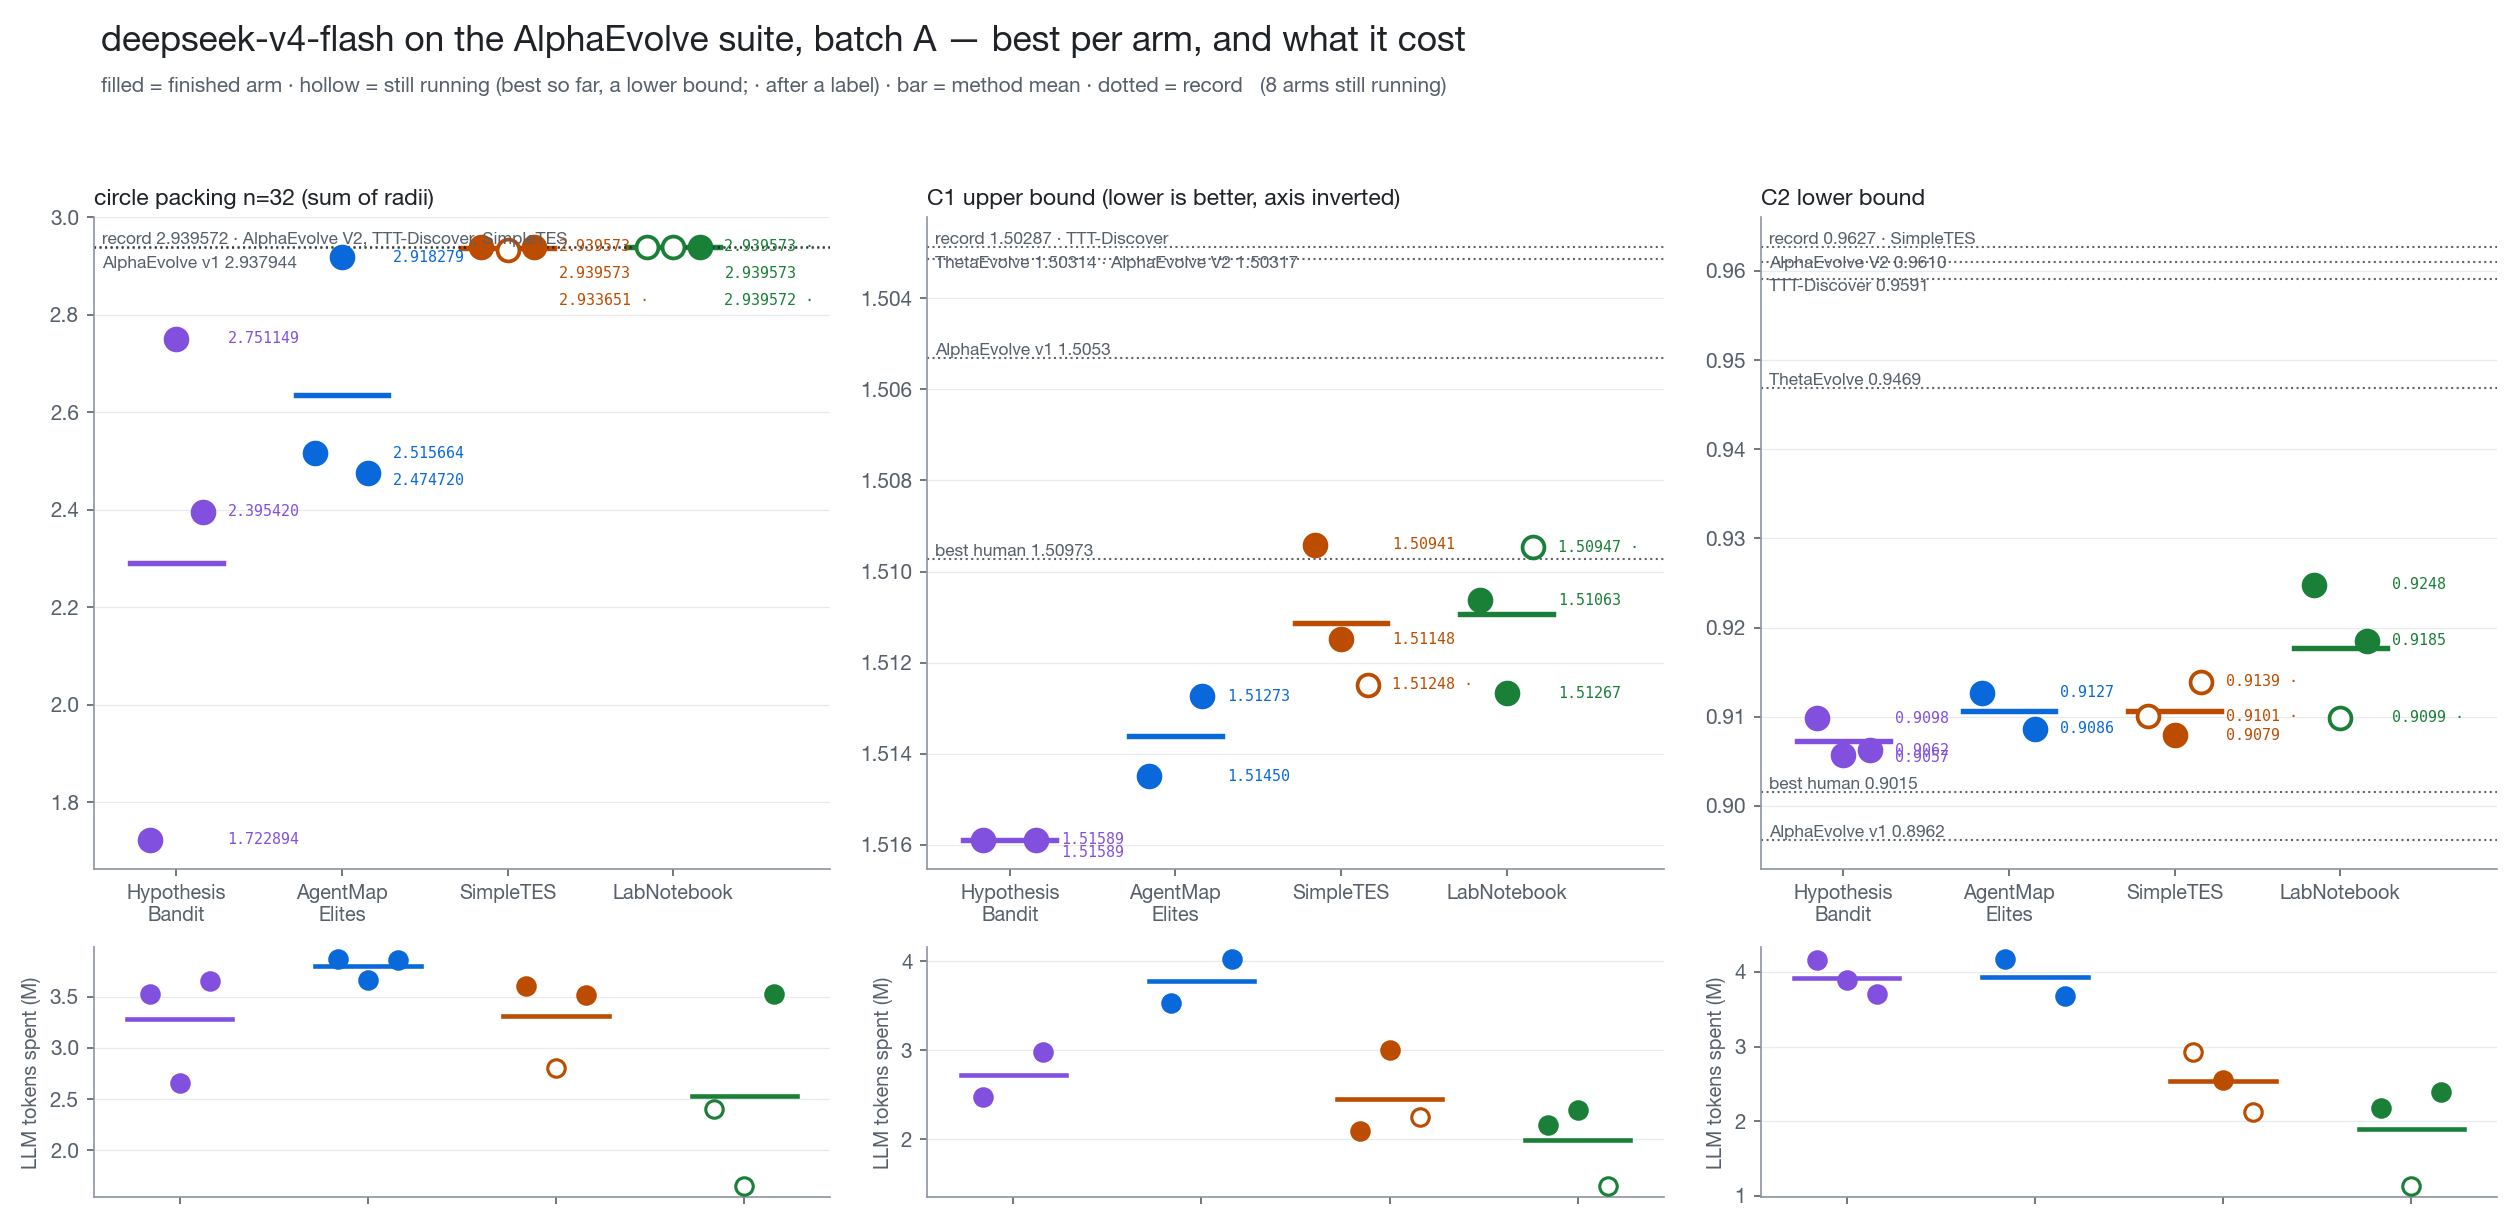
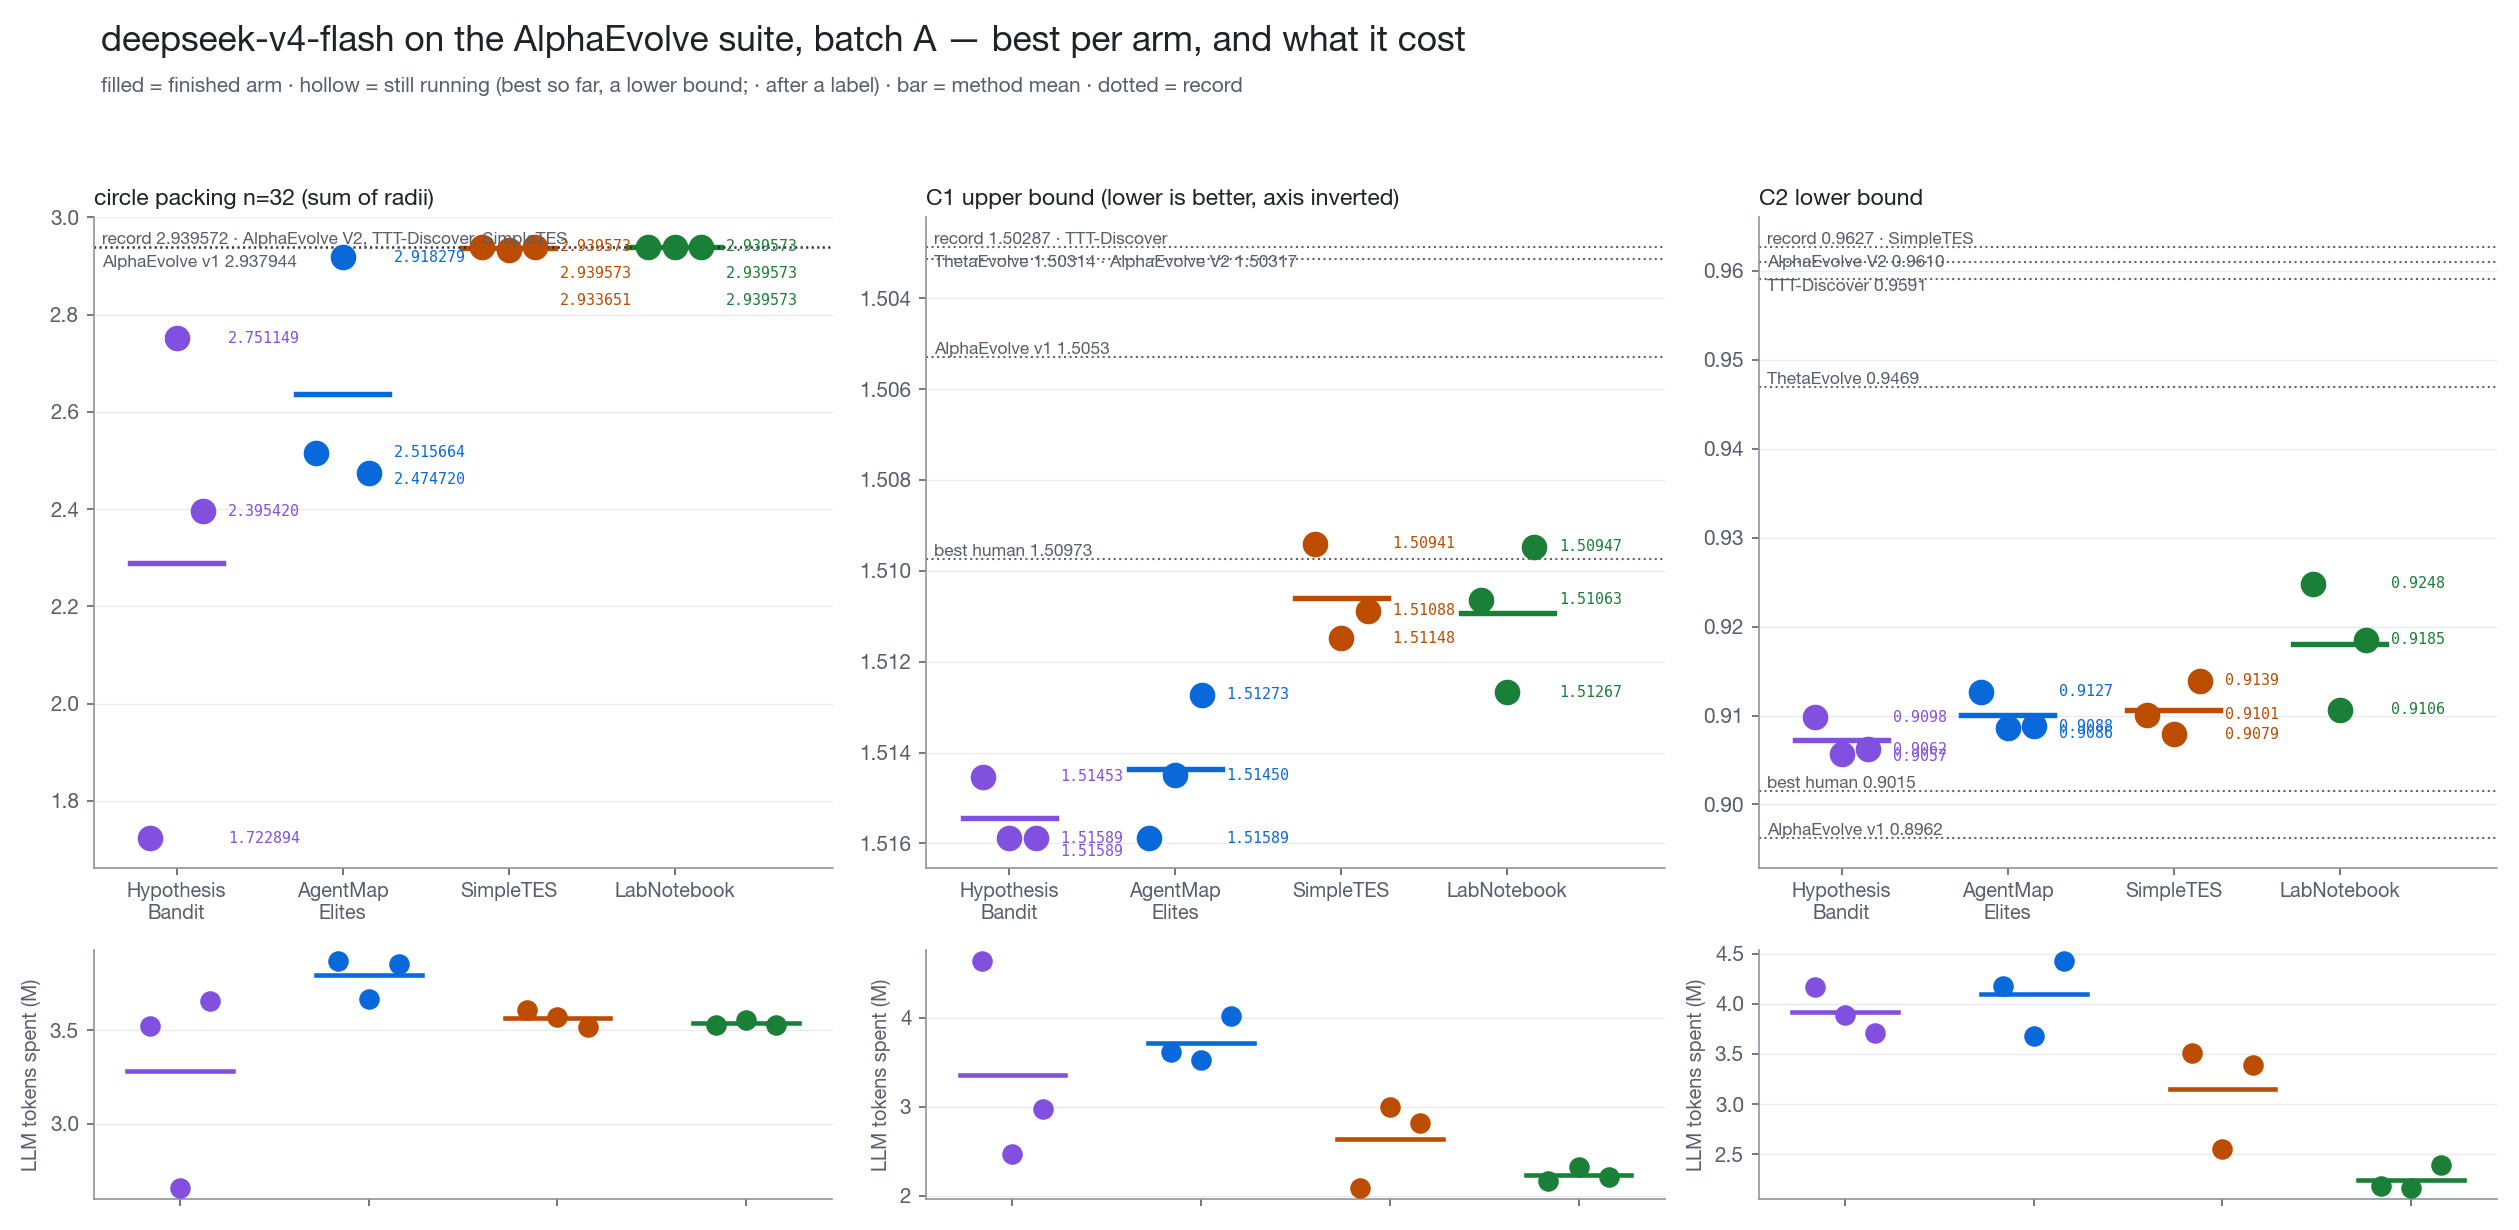
docs(evolution): AlphaEvolve-suite batch A final in the LabNotebook results

diff --git a/examples/evolution_bench/docs/lab_notebook_results.tex b/examples/evolution_bench/docs/lab_notebook_results.tex
@@ -201,8 +201,7 @@ gpt-oss-120b with an 1100 s evaluation cap), so their numbers are context, not c
 harness score for $C_1$ is $1/C_1$; the table reports $C_1$ itself.
 
 \begin{table}[H]\centering\small
-\caption{Batch A: per-arm results in the papers' units, with the published values. Arms still
-running are marked $^\circ$; a dash is an arm that had not started when the table was made.}
+\caption{Batch A, all 36 arms finished: per-arm results in the papers' units, with the published values.}
 \label{tab:ae}
 \begin{tabular}{@{}lrrrrr@{}}
 \toprule
@@ -211,26 +210,26 @@ method & s0 & s1 & s2 & mean & tokens \\
 \midrule
 HypothesisBandit & 1.722894 & 2.751149 & 2.395420 & 2.289821 & 3.3 \\
 AgentMapElites & 2.515664 & 2.918279 & 2.474720 & 2.636221 & 3.8 \\
-SimpleTES & 2.939573 & 2.933651$^\circ$ & 2.939573 & 2.937599 & 3.3 \\
-LabNotebook & 2.939572$^\circ$ & 2.939573$^\circ$ & 2.939573 & 2.939573 & 2.5 \\
+SimpleTES & 2.939573 & 2.933651 & 2.939573 & 2.937599 & 3.6 \\
+\textbf{LabNotebook} & \textbf{2.939573} & \textbf{2.939573} & \textbf{2.939573} & \textbf{2.939573} & 3.5 \\
 \multicolumn{6}{@{}l}{\footnotesize published: best human 2.936 $\cdot$ AlphaEvolve v1 2.937944 $\cdot$ record 2.939572} \\
 \multicolumn{6}{@{}l}{\footnotesize \phantom{published: }(AlphaEvolve V2, TTT-Discover, SimpleTES)} \\
 \midrule
 \multicolumn{6}{@{}l}{\textbf{$C_1$, first autocorrelation inequality} --- upper bound, lower is better} \\
 \midrule
-HypothesisBandit & 1.51589 & 1.51589 & --- & 1.51589 & 2.7 \\
-AgentMapElites & 1.51450 & 1.51273 & --- & 1.51362 & 3.8 \\
-SimpleTES & \textbf{1.50941} & 1.51148 & 1.51248$^\circ$ & 1.51112 & 2.4 \\
-LabNotebook & 1.51063 & 1.51267 & 1.50947$^\circ$ & \textbf{1.51093} & 2.0 \\
+HypothesisBandit & 1.51453 & 1.51589 & 1.51589 & 1.51544 & 3.4 \\
+AgentMapElites & 1.51589 & 1.51450 & 1.51273 & 1.51437 & 3.7 \\
+\textbf{SimpleTES} & \textbf{1.50941} & 1.51148 & 1.51088 & \textbf{1.51059} & 2.6 \\
+LabNotebook & 1.51063 & 1.51267 & 1.50947 & 1.51093 & 2.2 \\
 \multicolumn{6}{@{}l}{\footnotesize published: best human 1.50973 $\cdot$ AlphaEvolve v1 1.5053 $\cdot$ ThetaEvolve 1.50314} \\
 \multicolumn{6}{@{}l}{\footnotesize \phantom{published: }AlphaEvolve V2 1.50317 $\cdot$ TTT-Discover 1.50287 (record)} \\
 \midrule
 \multicolumn{6}{@{}l}{\textbf{$C_2$, second autocorrelation inequality} --- lower bound, higher is better} \\
 \midrule
 HypothesisBandit & 0.9098 & 0.9057 & 0.9062 & 0.9072 & 3.9 \\
-AgentMapElites & 0.9127 & 0.9086 & --- & 0.9107 & 3.9 \\
-SimpleTES & 0.9101$^\circ$ & 0.9079 & 0.9139$^\circ$ & 0.9106 & 2.5 \\
-\textbf{LabNotebook} & \textbf{0.9248} & 0.9099$^\circ$ & 0.9185 & \textbf{0.9177} & 1.9 \\
+AgentMapElites & 0.9127 & 0.9086 & 0.9088 & 0.9100 & 4.1 \\
+SimpleTES & 0.9101 & 0.9079 & 0.9139 & 0.9106 & 3.1 \\
+\textbf{LabNotebook} & \textbf{0.9248} & 0.9106 & 0.9185 & \textbf{0.9180} & 2.2 \\
 \multicolumn{6}{@{}l}{\footnotesize published: best human 0.9015 $\cdot$ AlphaEvolve v1 0.8962 $\cdot$ ThetaEvolve 0.9469} \\
 \multicolumn{6}{@{}l}{\footnotesize \phantom{published: }TTT-Discover 0.9591 $\cdot$ AlphaEvolve V2 0.9610 $\cdot$ SimpleTES 0.9627 (record)} \\
 \bottomrule
@@ -239,9 +238,10 @@ SimpleTES & 0.9101$^\circ$ & 0.9079 & 0.9139$^\circ$ & 0.9106 & 2.5 \\
 
 \begin{figure}[H]\centering
 \includegraphics[width=\textwidth]{lab_notebook_figs/overview_ae_batchA.png}
-\caption{Batch A with every published bound drawn. Packing $n{=}32$: three arms sit on the record.
-$C_1$: our best arms fall between the human record and AlphaEvolve v1, with the 2026 systems a
-clear band above. $C_2$: above AlphaEvolve v1 and the human best, well below the 2026 band.}
+\caption{Batch A with every published bound drawn. Packing $n{=}32$: five arms sit on the record
+(LabNotebook 3/3, SimpleTES 2/3). $C_1$: the best arms fall between the human record and AlphaEvolve
+v1, with the 2026 systems a clear band above. $C_2$: above AlphaEvolve v1 and the human best, well
+below the 2026 band.}
 \end{figure}
 
 \subsection{Cost}
@@ -284,8 +284,9 @@ called LabNotebook the cheapest method; that was read from partial arms and is w
 \item \textbf{Where SimpleTES is better: exploiting an incumbent.} Under a warm start SimpleTES
   improves on every seed and LabNotebook gets worse on two of three. The fix is cheap
   ($p_{\text{best}}\to1$ and a smaller $K$ when a warm start is present) but has not been run.
-\item \textbf{AlphaEvolve suite.} Record on packing $n{=}32$; $C_2$ is LabNotebook's, $C_1$ a
-  tie; both behind the 2026 systems by margins their extra compute explains.
+\item \textbf{AlphaEvolve suite.} Packing $n{=}32$: LabNotebook on the record 3/3, SimpleTES 2/3.
+  $C_2$ is LabNotebook's on every replicate; $C_1$ is SimpleTES's by 0.0003 in the mean --- a tie.
+  Both are behind the 2026 systems by margins their extra compute explains.
 \item \textbf{Limits of the evidence.} Three arms per cell; model sampling unseeded; the SimpleTES
   AHC039 arms are lower bounds after preemptions; and the ablation that would attribute the effect
   --- LabNotebook with random ideas and no notebook, same budget --- has not been run.
